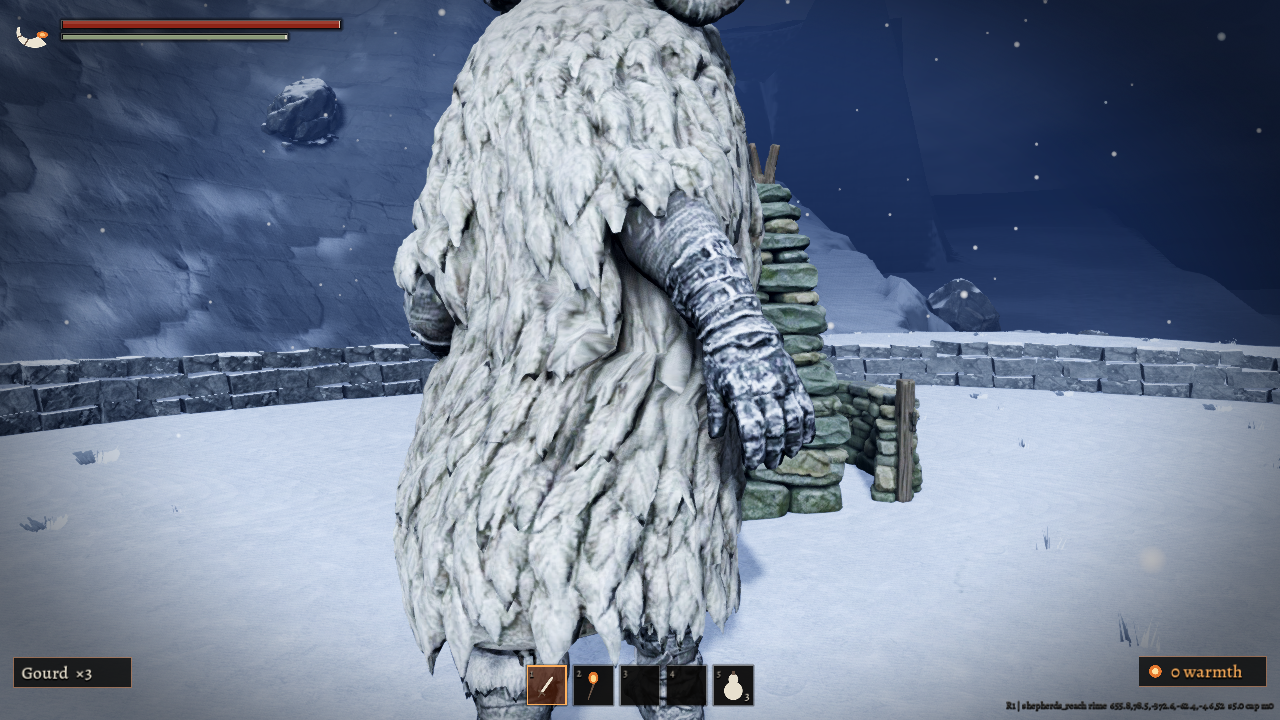
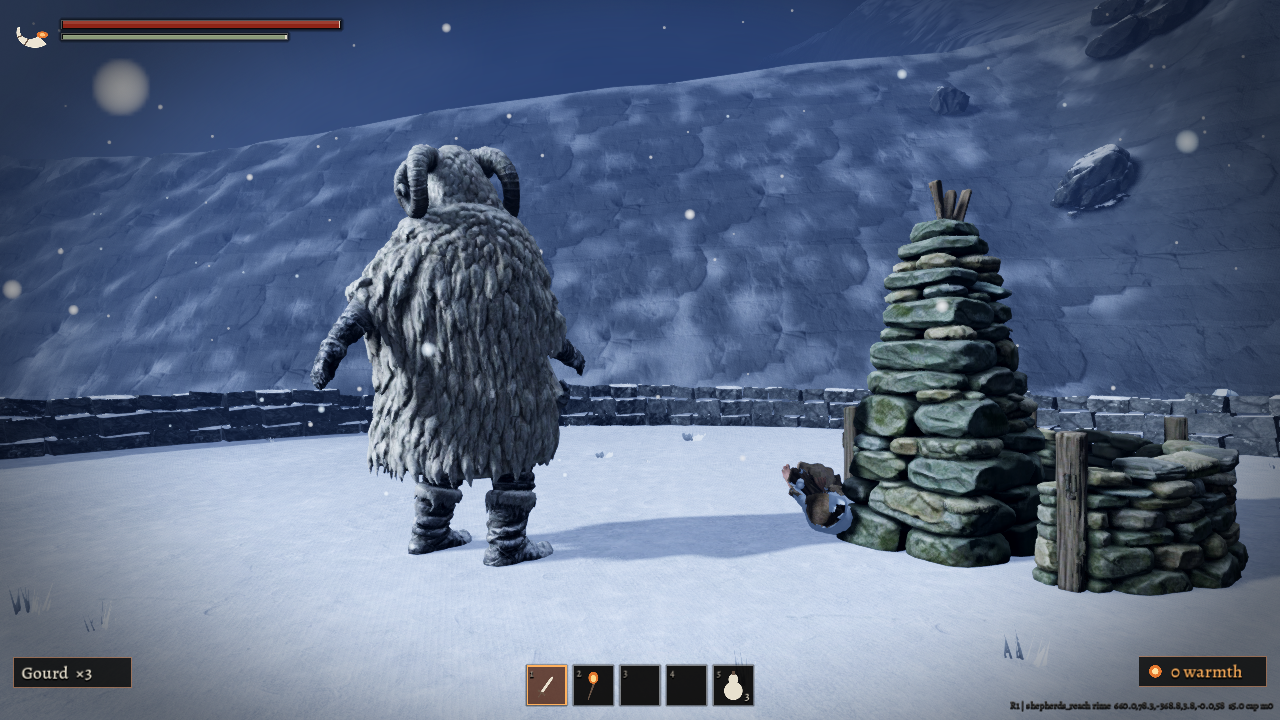
Fix what the screenshots showed; add the encounter and ending screens
The Frost-ram's glb faces the other way from the stag's: turn it and
mirror its poses. Old Calder is laid at the cairn (the sitting overlays
do not sit on a villager). The kept Bearer turns to the water, the
credits keep to the right, and after the Outsong the body carries no
arms. The mask's band lies across the eyes.

Claude-Session: https://claude.ai/code/session_01F3vrUNPtFufos1qRX6SLeD

diff --git a/tools/art/procedural/small_props.py b/tools/art/procedural/small_props.py
@@ -299,14 +299,15 @@ def mask_scene(name, h, root):
     res = [mat("birch", 0.82, 0.76, 0.64, 0.7), mat("eye", 0.06, 0.05, 0.05), mat("woad", *WOAD, 0.95), mat("brow", 0.4, 0.33, 0.26),
            ("face", "SphereMesh", {"radius": 0.5, "height": 1.0, "radial_segments": 14, "rings": 8, "material": 'SubResource("birch")'}),
            ("eye", "SphereMesh", {"radius": 0.5, "height": 1.0, "radial_segments": 8, "rings": 4, "material": 'SubResource("eye")'}),
-           ("band", "BoxMesh", {"size": "Vector3(%g, %g, %g)" % (w * 1.04, h * 0.09, h * 0.2), "material": 'SubResource("woad")'}),
+           ("band", "BoxMesh", {"size": "Vector3(%g, %g, %g)" % (w * 0.97, h * 0.13, h * 0.32), "material": 'SubResource("woad")'}),
            ("brow", "BoxMesh", {"size": "Vector3(%g, %g, %g)" % (w * 0.7, h * 0.02, h * 0.04), "material": 'SubResource("brow")'})]
     nodes = [(root, "Node3D", None, {}),
              ("Face", "MeshInstance3D", ".", {"transform": xf(w, h, h * 0.3, y=h * 0.5), "mesh": 'SubResource("face")'}),
-             ("EyeL", "MeshInstance3D", ".", {"transform": xf(w * 0.2, h * 0.09, h * 0.1, x=-w * 0.2, y=h * 0.56, z=h * 0.12), "mesh": 'SubResource("eye")'}),
-             ("EyeR", "MeshInstance3D", ".", {"transform": xf(w * 0.2, h * 0.09, h * 0.1, x=w * 0.2, y=h * 0.56, z=h * 0.12), "mesh": 'SubResource("eye")'}),
-             ("Brow", "MeshInstance3D", ".", {"transform": xf(y=h * 0.68, z=h * 0.13), "mesh": 'SubResource("brow")'}),
-             ("Band", "MeshInstance3D", ".", {"transform": xf(y=h * 0.8), "mesh": 'SubResource("band")'})]
+             ("EyeL", "MeshInstance3D", ".", {"transform": xf(w * 0.2, h * 0.08, h * 0.1, x=-w * 0.2, y=h * 0.56, z=h * 0.125), "mesh": 'SubResource("eye")'}),
+             ("EyeR", "MeshInstance3D", ".", {"transform": xf(w * 0.2, h * 0.08, h * 0.1, x=w * 0.2, y=h * 0.56, z=h * 0.125), "mesh": 'SubResource("eye")'}),
+             ("Brow", "MeshInstance3D", ".", {"transform": xf(y=h * 0.7, z=h * 0.125), "mesh": 'SubResource("brow")'}),
+             # the band lies across the eyes, the holes showing through it
+             ("Band", "MeshInstance3D", ".", {"transform": xf(y=h * 0.56), "mesh": 'SubResource("band")'})]
     scene(name, res, nodes, upright=True)
 
 

diff --git a/tools/gen_reach.py b/tools/gen_reach.py
@@ -192,14 +192,13 @@ npcs = [
     # REACH.md 7: before the release, Calder at the gap with the wall; Sigga on the slope
     {"id": "old_calder", "at": at(GAP[0] + 3.5, GAP[1] + 2.0), "rot": 300, "tag": "thaw", "absent_flag": "ks_fellcaller_released"},
     {"id": "sigga", "at": at(TX, TZ), "rot": 200, "tag": "thaw", "absent_flag": "ks_fellcaller_released"},
-    # REACH.md 9: after, the two of them in the fold, he sat on the wall he has finished
-    {"id": "old_calder", "at": at(FX - 7.0, FZ + 4.0), "rot": 240, "tag": "thaw", "pose": "sit", "seat": "turf",
-     "require_flag": "ks_fellcaller_released"},
+    # REACH.md 9: after, the two of them in the fold, at the wall he has finished
+    {"id": "old_calder", "at": at(FX - 7.0, FZ + 4.0), "rot": 240, "tag": "thaw", "require_flag": "ks_fellcaller_released"},
     {"id": "sigga_fold", "at": at(FX - 5.4, FZ + 5.2), "rot": 300, "tag": "thaw", "require_flag": "ks_fellcaller_released"},
-    # REACH.md 4: RIME. He is sat against the cairn where she found him
-    {"id": "calder_rime", "at": at(FATHER[0], FATHER[1]), "rot": 105, "tag": "rime"},
+    # REACH.md 4: RIME. He is laid out at the foot of the cairn where she found him (head to the south)
+    {"id": "calder_rime", "at": at(FATHER[0], FATHER[1] - 0.9), "rot": 0, "tag": "rime"},
 ]
-# his boots, off, beside him on the wall (after the release, THAW)
+# his boots, off, beside him at the wall (after the release, THAW)
 LANDMARKS.append({"scene": "res://assets/models/props/calder_boots.tscn", "at": at(FX - 7.9, FZ + 4.9, 0.02), "rot": 240,
                   "tag": "thaw", "require_flag": "ks_fellcaller_released"})
 

diff --git a/docs/lore/COLDWELL.md b/docs/lore/COLDWELL.md
@@ -125,7 +125,7 @@ Any Song breaks one outright (`breaks_to`): a singer who has learned anything on
 
 | Attack | Telegraph | Behaviour |
 |---|---|---|
-| **Held note** (`held_note`) | Her mask comes up off the child and stays up, a thin breath, held (1.4 s); a 1.8 × 12 m strip glows from her toward the Bearer | The air along it freezes and stands, a wall of rime as high as a door, for 9 s. Two blows break it. The walls are what the fight is made of: she is putting things between them. |
+| **Held note** (`held_note`) | Her mask comes up off the child and stays up, a thin breath, held (1.4 s); a 1.8 × 12 m strip glows from her toward the Bearer | The air along it freezes and stands, a ridge of rime teeth to the hip, for 9 s. Two blows break it. The ridges are what the fight is made of: she is putting things between them. |
 | **Shelter** (`shelter`) | The Bearer within reach of the child: she folds herself down over it, both arms round (0.9 s); a 3.8 m circle glows | The cold comes off her back and puts the Bearer out to the edge of it. Hardly any damage. |
 | **Not yet** (`not_yet`) | She breathes in as if to begin, and holds it, and does not begin (1.8 s) | With fewer than two of the Unsung standing, two stand up out of the ice between her and the Bearer. |
 
@@ -154,7 +154,7 @@ From here a blade does nothing (`p3_blade`). Within 4.4 m of her the prompt is o
 
 So the last of the fight is this: get inside the long note, stay outside her arms, keep the Unsung off for the length of a breath, and sing. It is what the neighbours came to her door to do, and what she could not start.
 
-**Release.** After the third verse she sits down again, slowly, as she was. The walls of rime fall. The Unsung go. The veil falls as meltwater. Title card: **MAREN — RELEASED**. Nothing plays. On the ground in front of her, side by side: the **band** and the **mask** (§8). The prompts are *Take the band* and *Take the mask*.
+**Release.** After the third verse she sits down again, slowly, as she was. The ridges of rime fall. The Unsung go. The veil falls as meltwater. Title card: **MAREN — RELEASED**. Nothing plays. On the ground in front of her, side by side: the **band** and the **mask** (§8). The prompts are *Take the band* and *Take the mask*.
 
 She stays where she is sat. The choice (§4) opens beside the spring, a few steps from her.
 
@@ -253,7 +253,7 @@ Pieces 1, 3 and 4 were written in `WORLD.md` but not placed. They are placed now
 
 ## 9. The release beat and what she leaves
 
-- **In the arena:** the third verse; she sits; the rime walls fall; the Unsung go; the veil melts; **MAREN — RELEASED**; silence.
+- **In the arena:** the third verse; she sits; the rime ridges fall; the Unsung go; the veil melts; **MAREN — RELEASED**; silence.
 - **Flag:** `ks_leadvoice_released`.
 - **Drops:** `item_wren_band` (`release_drop`, raises `ks_wren_band_found`) and `item_maren_mask` (`release_drop2`), side by side in front of her.
 - **Warmth:** none.

diff --git a/docs/lore/REACH.md b/docs/lore/REACH.md
@@ -80,7 +80,7 @@ Title cards (first entry to each zone, the UI serif in small caps, no subtitle):
 ### RIME (boss arena)
 
 - A frost veil across the gap.
-- **Old Calder** sat against the cairn, rimed over, his feet bare (`calder_rime`: not a foe; nothing to say).
+- **Old Calder** laid out on his back at the foot of the cairn, rimed over, his feet bare (`calder_rime`: not a foe; nothing to say).
 - **The Fellcaller** stood beside him with her back to him, calling out over the wall at the slope.
 
 ---
@@ -115,7 +115,7 @@ A fell tup the frost took with its head down. The horns have gone on growing in 
 
 **Sigga Calder.** 3.4 m, broad, in a coat of whole fleeces rimed stiff. A ram's horns curl either side of her mask and frame it. A calling horn in her right fist.
 
-**Arena:** the fold, thirteen metres to the wall. The cairn off-centre, her father against it. Frost veil in the gap.
+**Arena:** the fold, thirteen metres to the wall. The cairn off-centre, her father at the foot of it. Frost veil in the gap.
 
 **Intro (no dialogue).** The player parts the veil. She is beside her father with her back to him, calling out over the wall: the long rising call, over and over, to a slope where nothing has moved for fifteen years. When the player is within 8 m or strikes her, the call stops in the middle. She lowers the horn and turns. The health bar appears: **THE FELLCALLER**.
 
@@ -264,7 +264,7 @@ Voice per `WRITING.md`: a plain fact, then one human detail. No morals.
 - **Drop:** `item_fold_tally` (`release_drop`, `at_point`) by her father's hand, which raises `ks_fold_tally_found`.
 - **The flock:** lying, on the slope, in every later RIME (`release_flock` now; the area's own flagged props on rebuild).
 - **Hearth:** `hs_high_fold` wakes inside the fold (`release_hearth`).
-- **After release, THAW:** Calder is sat on the fold wall, which is finished, his boots off beside him. Sigga stands by him (`sigga_fold`). Within earshot:
+- **After release, THAW:** Calder is stood at the fold wall, which is finished, his boots off beside him. Sigga stands by him (`sigga_fold`). Within earshot:
   > **Sigga:** "Forty-four."
   > **Calder:** "There. Who was it?"
   > **Sigga:** "Me. You've got me down as a ewe."
